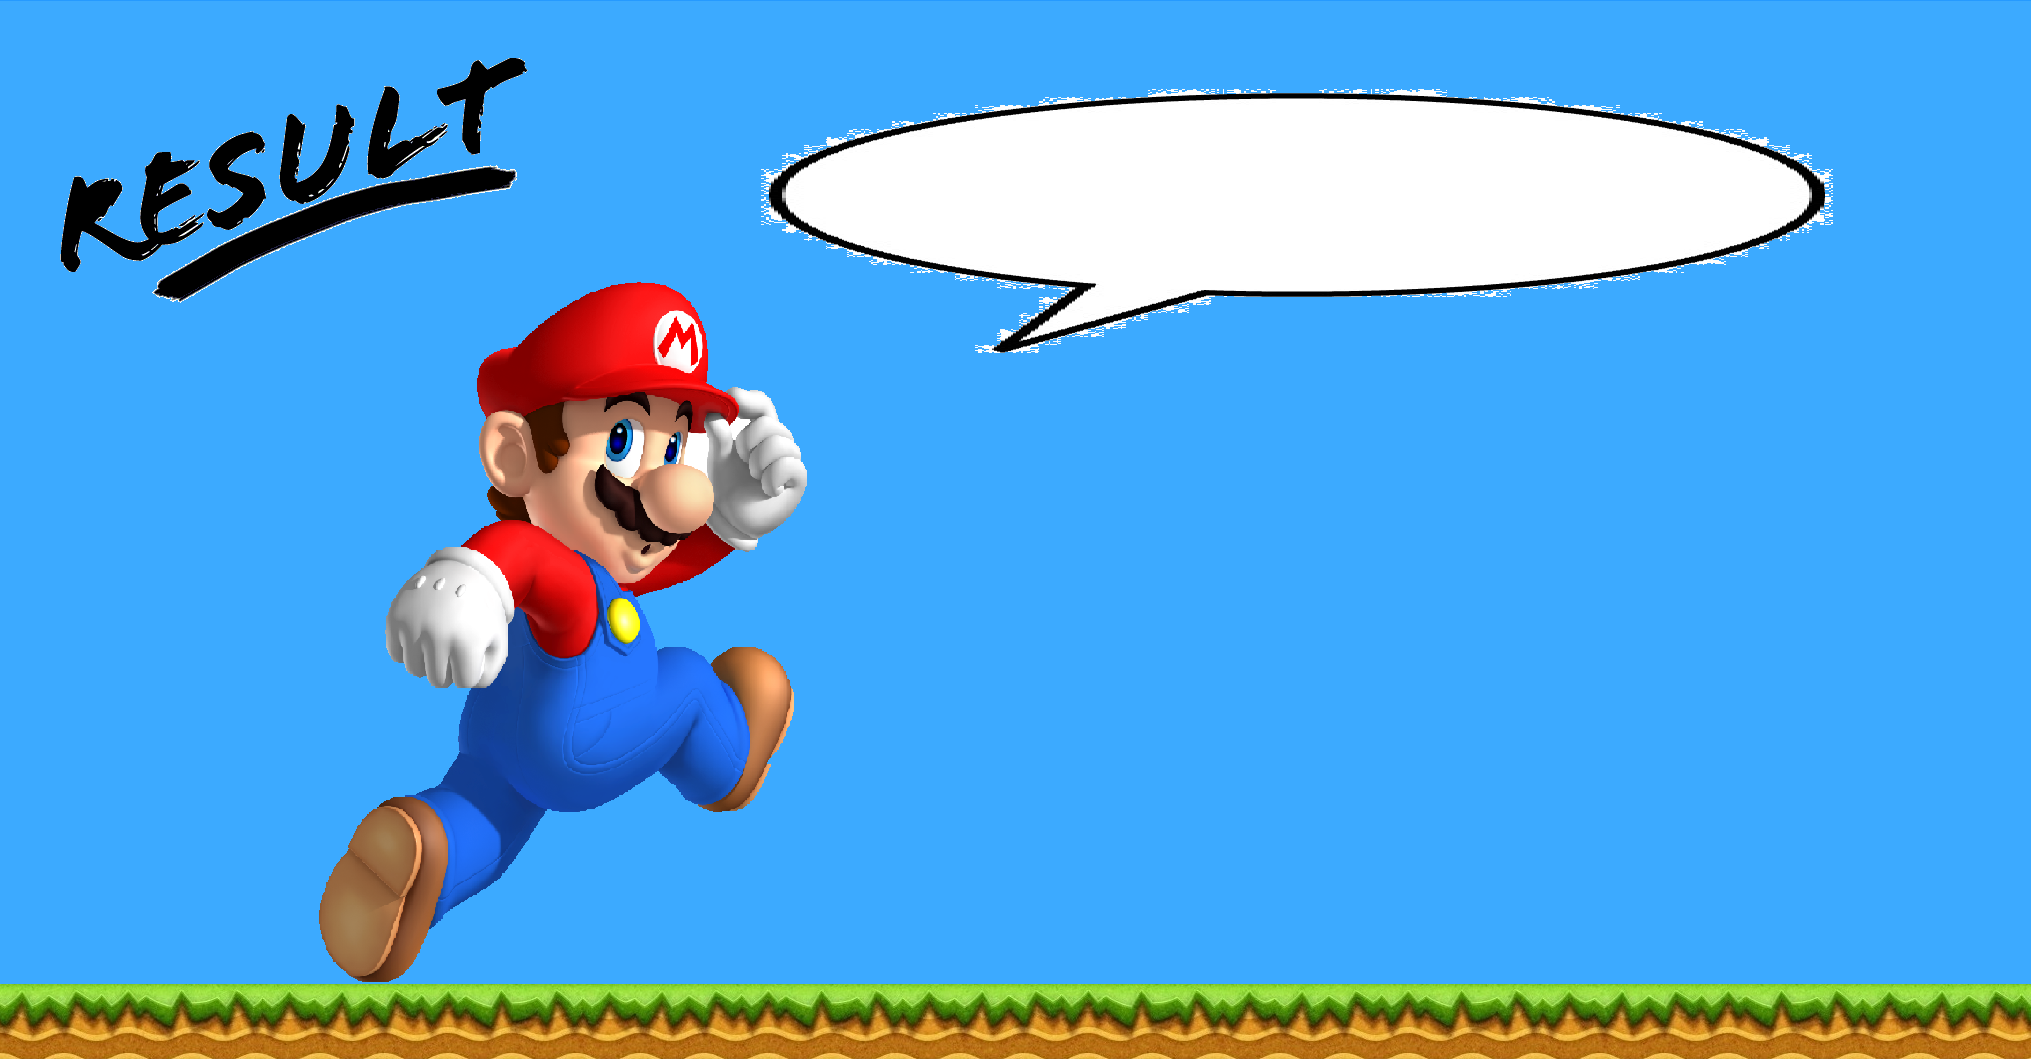
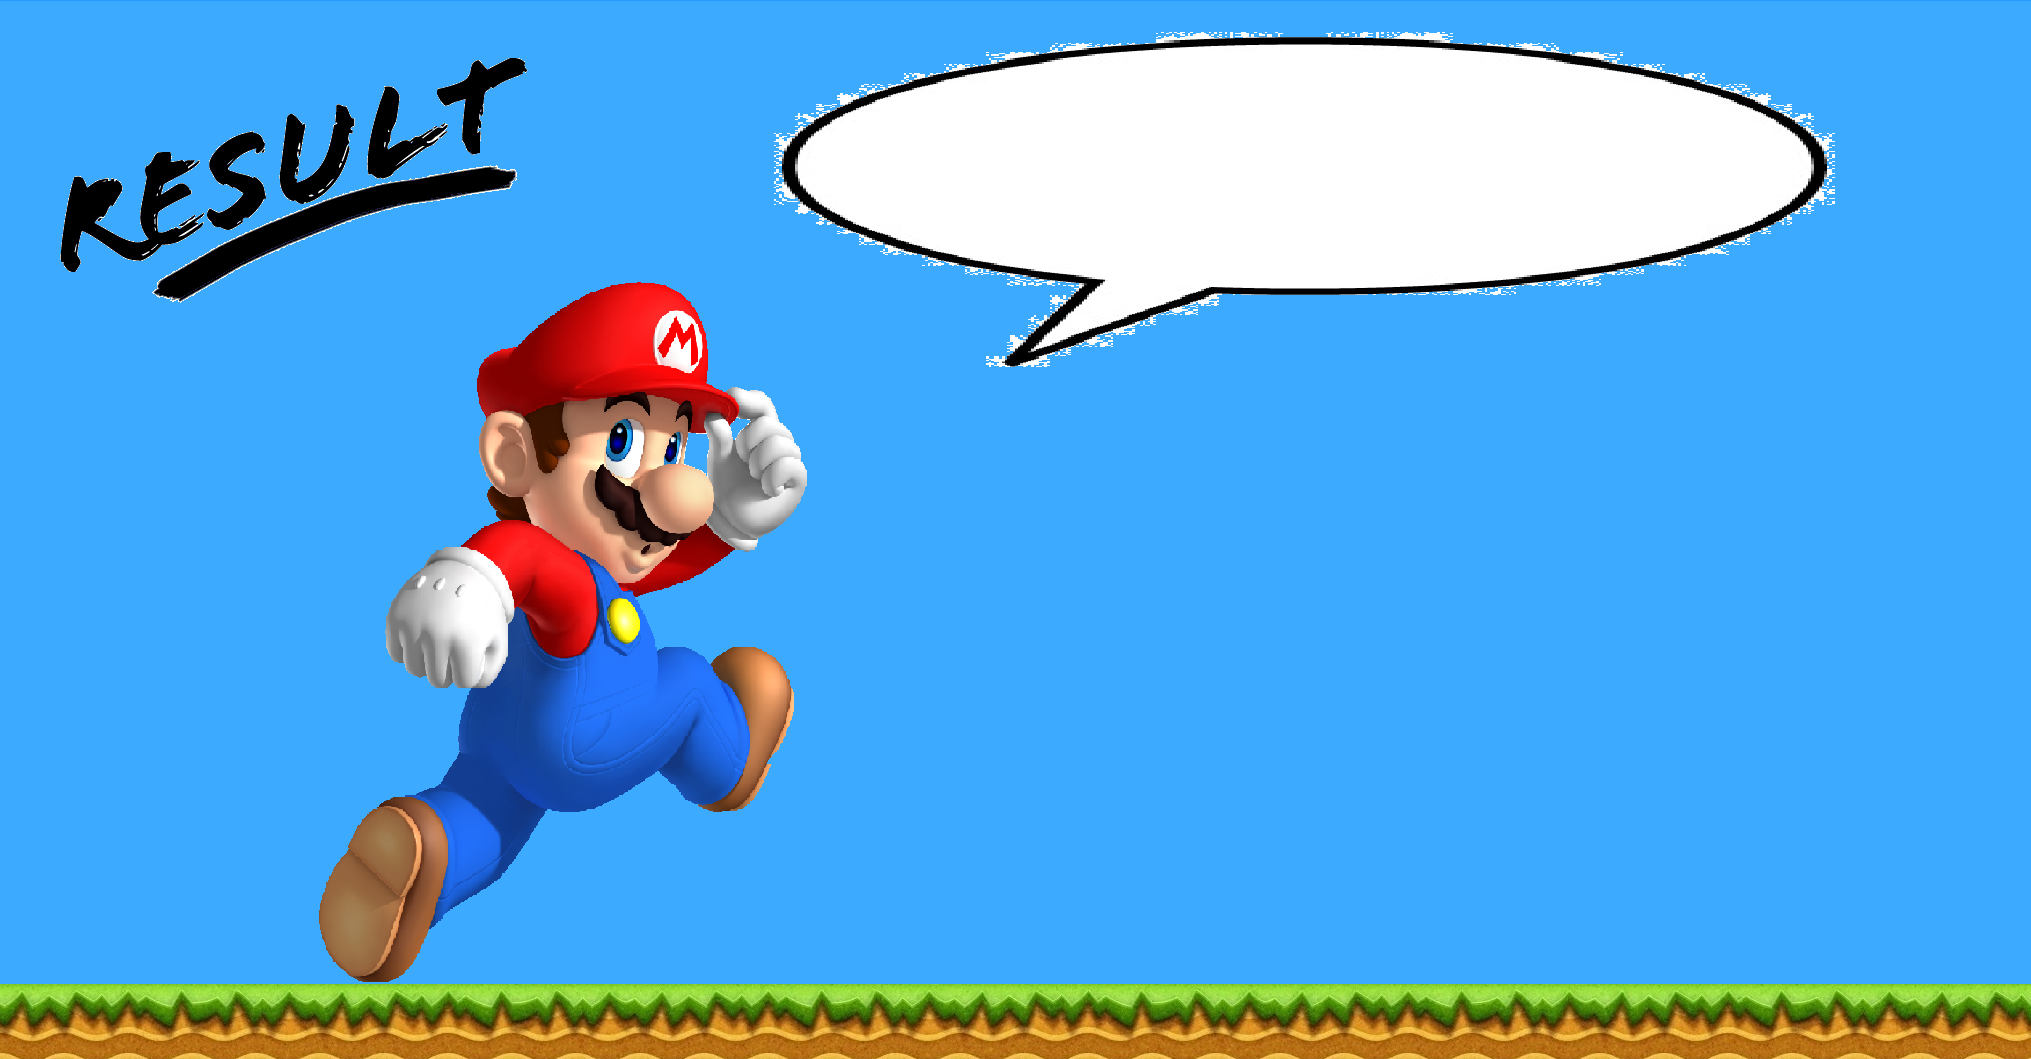
Falta quitar reborde del textField.

Changed region(s): [[0.3722, 0.0312, 0.8996, 0.3428], [0.3412, 0.4051, 0.3722, 0.4363]]

diff --git a/MarioBross/src/VentanaResultadoFinal.java b/MarioBross/src/VentanaResultadoFinal.java
@@ -33,7 +33,7 @@ public class VentanaResultadoFinal extends JFrame {
 		setResizable(false);
 		JTextField tResultado = new JTextField();
 		tResultado.setFocusable(false);
-		tResultado.setBounds(870, 120, 750, 142);
+		tResultado.setBounds(870, 100, 750, 142);
 		tResultado.setForeground(Color.BLACK);
 		tResultado.setText(mario.toString());
 		tResultado.setFont(new Font("Tahoma", Font.PLAIN, 50));
